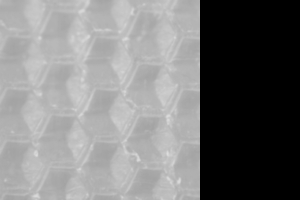
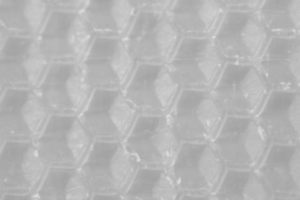
works

diff --git a/src/lib.rs b/src/lib.rs
@@ -80,8 +80,8 @@ fn interpolate<T, U, const T_MAX: usize, const U_MAX: usize>(
     T: image::Primitive,
     U: image::Primitive + num_traits::cast::ToPrimitive + num_traits::cast::FromPrimitive,
 {
-    let input_width = input.width() as usize;
-    let input_height = input.height() as usize;
+    let out_width = dst.width() as usize;
+    let out_height = dst.height() as usize;
 
     // Calculate range,
     //  for -1, 0 this should be 0..(tile_width/2)
@@ -89,14 +89,16 @@ fn interpolate<T, U, const T_MAX: usize, const U_MAX: usize>(
 
     let (tile_width, tile_height) = tile_size_wh;
     let x_start: u32 = (tile_xs.0 * tile_width as i32 + tile_width as i32 / 2)
-        .clamp(0i32, input_width as i32) as u32;
+        .clamp(0i32, out_width as i32) as u32;
     let x_end: u32 = (tile_xs.1 * tile_width as i32 + tile_width as i32 / 2)
-        .clamp(0i32, input_height as i32) as u32;
+        .clamp(0i32, out_width as i32) as u32;
 
     let y_start: u32 = (tile_ys.0 * tile_height as i32 + tile_height as i32 / 2)
-        .clamp(0i32, input_height as i32) as u32;
+        .clamp(0i32, out_height as i32) as u32;
     let y_end: u32 = (tile_ys.1 * tile_height as i32 + tile_height as i32 / 2)
-        .clamp(0i32, input_height as i32) as u32;
+        .clamp(0i32, out_height as i32) as u32;
+
+    println!("fill: [{x_start}, {x_end}), [{y_start}, {y_end})");
 
     let lut_left = tile_xs.0.clamp(0, n_tiles_wh.0 as i32 - 1) as usize;
     let lut_right = tile_xs.1.clamp(0, n_tiles_wh.0 as i32 - 1) as usize;
